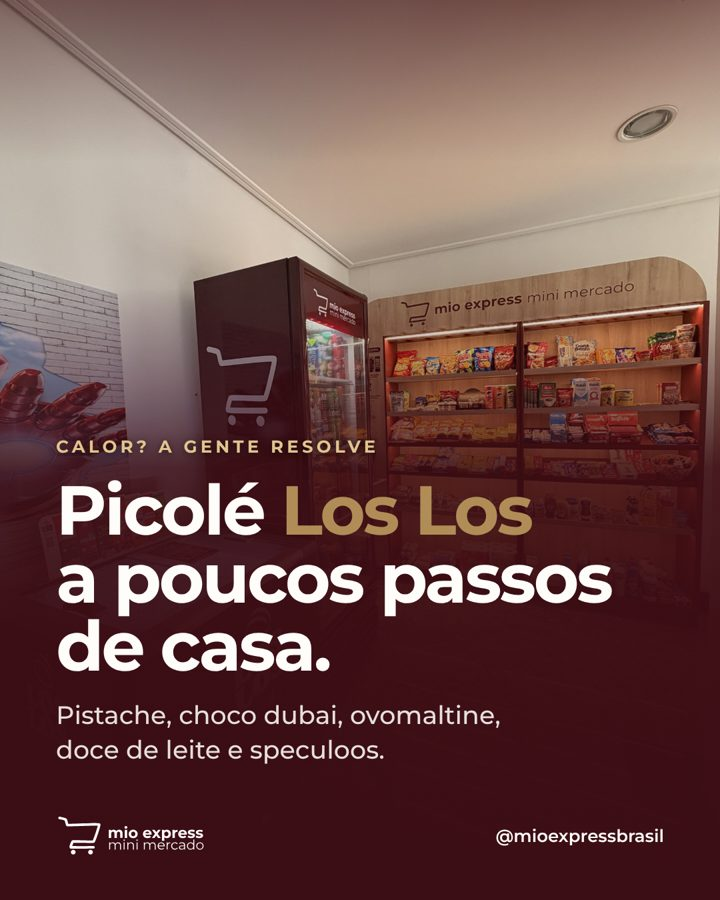
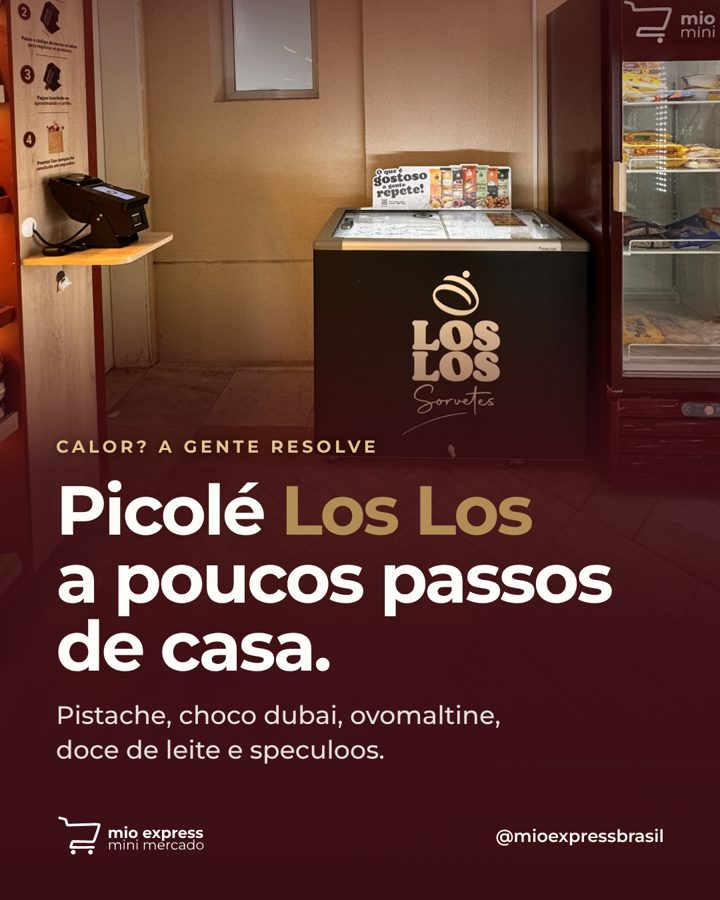
Picolé com foto do freezer Los Los
Claude-Session: https://claude.ai/code/session_01CwP1brNtxaKT1mUQXiiAjA

diff --git a/marketing/posts/05-picole-los-los/.slide.html b/marketing/posts/05-picole-los-los/.slide.html
@@ -40,7 +40,7 @@ p.lead { font-size: 38px; line-height: 1.35; font-weight: 500; opacity: .88; }
 .ft2 { position: absolute; left: 0; right: 0; bottom: 0; height: 760px; background-size: cover; }
 .ft2::after { content: ""; position: absolute; inset: 0; background: linear-gradient(180deg, #3b0d14 0%, rgba(59,13,20,0) 28%, rgba(59,13,20,0) 70%, rgba(59,13,20,.85) 100%); }
 .ft.baixo::after { background: linear-gradient(180deg, rgba(59,13,20,.5) 0%, rgba(59,13,20,0) 18%, rgba(59,13,20,0) 32%, rgba(59,13,20,.88) 52%, rgba(59,13,20,.97) 70%, #3b0d14 100%); }
-</style><body><div class="s" style="color:#fffdf9"><div class="ft baixo" style="background-image:url(file:///home/user/mioexpress-site/assets/source/fotos/loja4-ambiente.jpg);background-position:20% 70%"></div>
+</style><body><div class="s" style="color:#fffdf9"><div class="ft baixo" style="background-image:url(file:///home/user/mioexpress-site/assets/source/fotos/loja3-loslos.jpg);background-position:-130px -760px;background-size:auto 1900px"></div>
         <div class="z mt-a" style="margin-bottom:110px"><p class="eyebrow" style="color:#e2c48f">Calor? A gente resolve</p>
         <h1 class="mt1">Picolé <em>Los Los</em><br>a poucos passos<br>de casa.</h1>
         <p class="lead mt1">Pistache, choco dubai, ovomaltine,<br>doce de leite e speculoos.</p></div><div class="rodape"><img src="file:///home/user/mioexpress-site/public/brand/logo-white.svg"><span>@mioexpressbrasil</span></div></div></body>

diff --git a/CLAUDE.md b/CLAUDE.md
@@ -50,6 +50,7 @@ Leia antes de qualquer trabalho. Vale para o site e para o marketing.
   - Gerador: `node marketing/gerador/posts.mjs [id]`, que gera 1080×1350 em `marketing/posts/<id>/` com `legenda.txt`.
   - Para um post novo, copie um item de `POSTS` no gerador.
   - Direção visual (João, 26/10): foto real da loja de fundo, com degradê bordô sob o texto. Nada de produto recortado solto no fundo, nem render 3D no feed. Fotos em `assets/source/fotos/` (loja2, loja3, loja4).
+  - Se faltar uma foto que encaixe no tema (ex.: freezer de perto, produto específico), avise o João e peça; ele manda pelo link de upload https://claude.ai/artifact/277x3Jeh3JeTZBehGaqMxf.
   - Quebre as linhas dos títulos à mão (`<br>`): sem palavra sozinha na última linha, e o texto todo dentro da área escura do degradê.
 - **Primeiro lote, em rascunho no Metricool desde 26/10/2026** (esperando aprovação do João). As imagens públicas ficam em `public/ig/<id>/` (noindex; ao mudar uma arte, use pasta nova, como `-v2`, por causa do cache):
   - Ter 27/10 18h (movido de seg 26/10): 09 Halloween "até os produtos se fantasiaram" (carrossel com imagens do GPT, aprovado pelo João, agendado de verdade, marcado como IA). Cupom MIOWEEN10, 10% em doces só na sexta e no sábado (30 e 31/10). Código no totem: mínimo de 8 caracteres, maiúsculas e números
